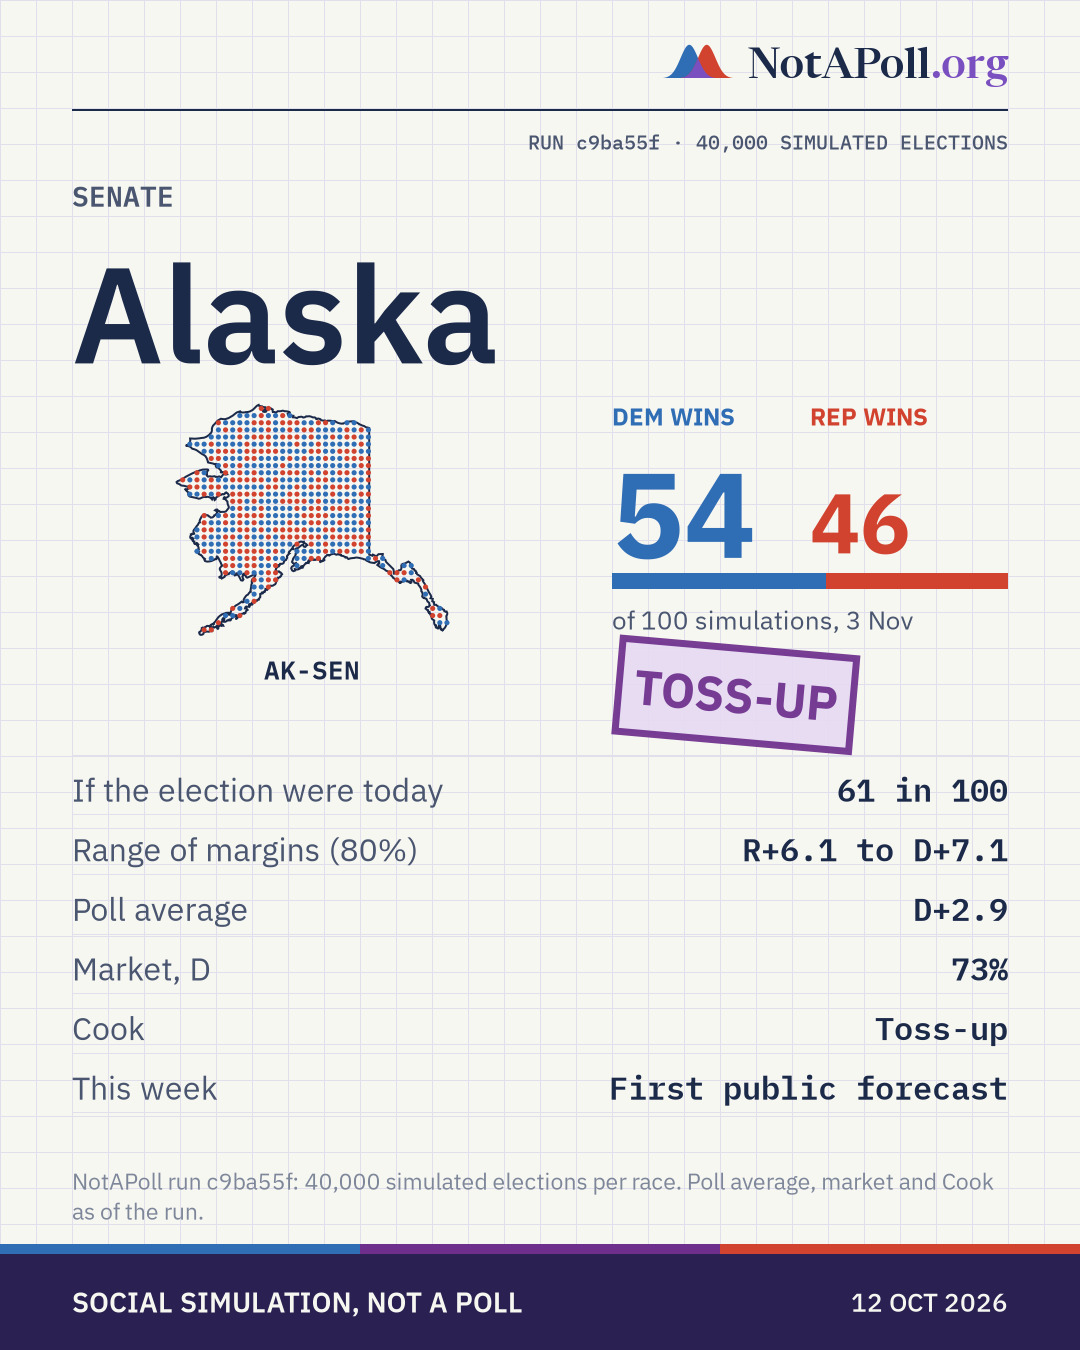
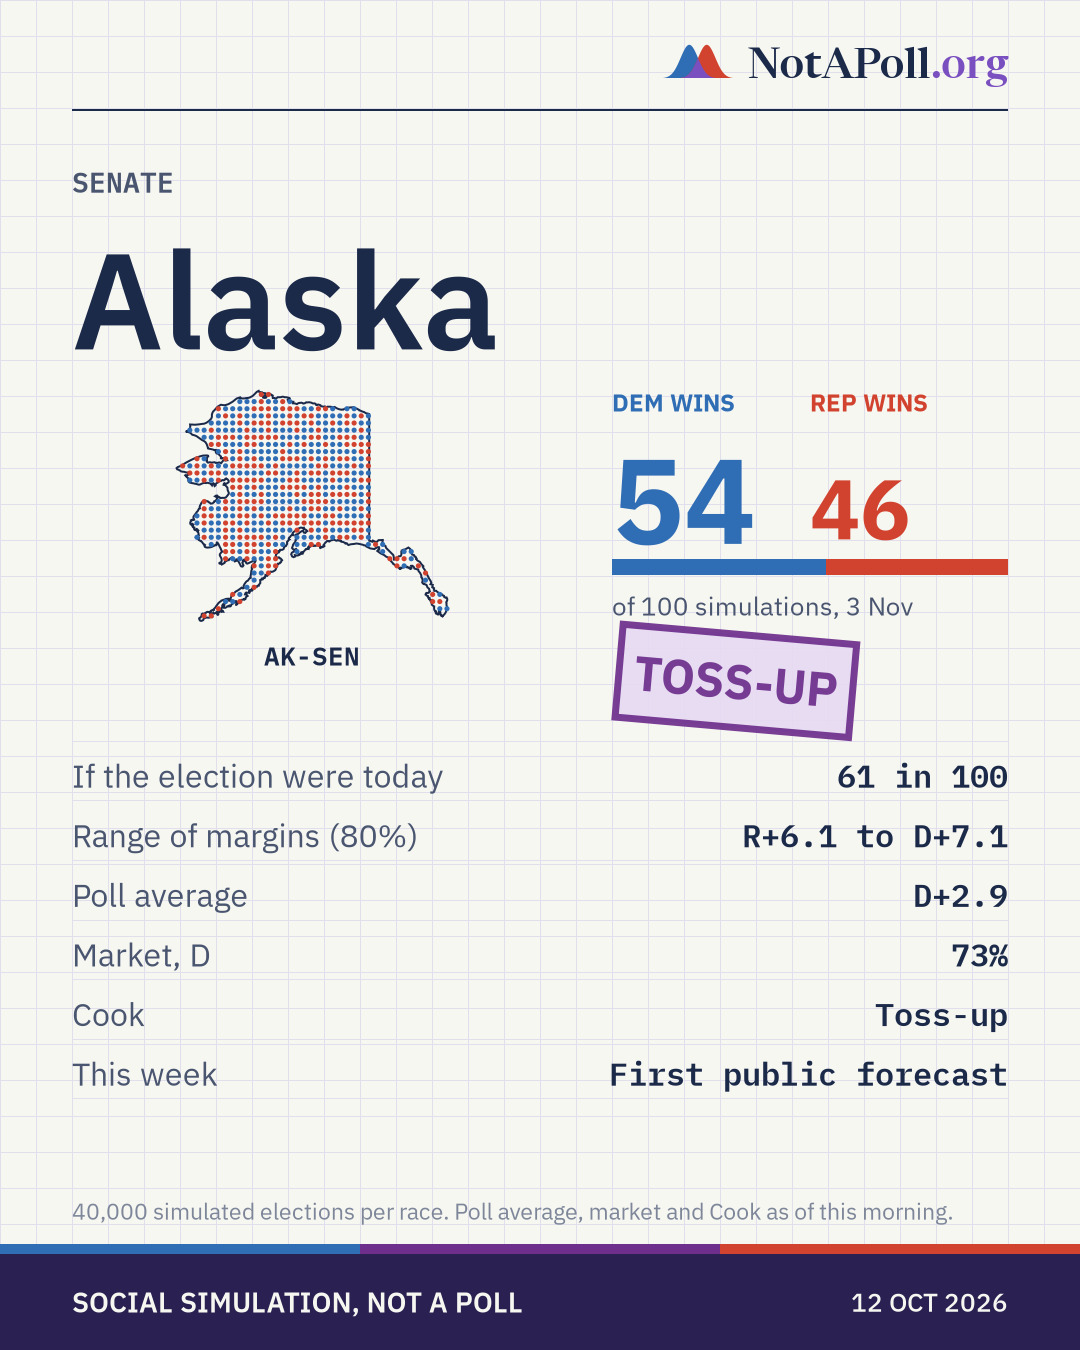
Launch post: Democrats left and Republicans right on The Chamber, no run code on slides (Matteo, 12 Oct); images re-hosted for Buffer

diff --git a/simlab/publish/launchday.py b/simlab/publish/launchday.py
@@ -34,7 +34,8 @@ def races(f: dict, day: date, kicker: str, source: str) -> list[dict]:
         b = x.get("benchmarks") or {}
         m = race_meta(rid, {})
         m["left_party"] = x.get("left_party", m.get("left_party", "D"))
-        out.append(m | {"rid": rid, "run": run, "day": day, "kicker": kicker, "p": float(x["p_dem_win"]),
+        out.append(m | {"rid": rid, "run": None, "day": day,  # no run code on slides (Matteo, 12 Oct)
+                        "kicker": kicker, "p": float(x["p_dem_win"]),
                         "prev": None, "today": (x.get("today") or {}).get("p_dem_win"),
                         "lo": x["margin"]["p10"], "mid": x["margin"]["p50"], "hi": x["margin"]["p90"],
                         "poll": poll_txt(b.get("poll_avg"), m["left_party"]), "market": b.get("market"),
@@ -68,7 +69,7 @@ def build(day: date, data: Path, preview: bool = False, theme=LAB) -> tuple[Path
     run = str(f.get("run_id", "unknown")).rsplit("-", 1)[-1][:7]
     kicker = "PREVIEW · NOT FOR POSTING" if preview else ""
     src = (f"Preview on pilot numbers ({day:%d %b}), not a public forecast." if preview else
-           f"NotAPoll run {run}: 40,000 simulated elections per race. Poll average, market and Cook as of the run.")
+           "40,000 simulated elections per race. Poll average, market and Cook as of this morning.")
     rs = races(f, day, kicker, src)
     feat = featured(rs, max(day, date(2026, 10, 12)))
     sen = f["senate"]
@@ -76,7 +77,7 @@ def build(day: date, data: Path, preview: bool = False, theme=LAB) -> tuple[Path
     ind = {r["usps"] for r in rs if r["left_party"] in ("I", "O")}
     hold = sen.get("not_up", {"D": 32, "R": 31, "I": 2})
     cover = specials.chamber(theme, up, {"D": hold.get("D", 0) + hold.get("I", 0), "R": hold.get("R", 0)},
-                             sen["p_r_50plus"], (sen.get("benchmarks") or {}).get("market"), day, run, kicker,
+                             sen["p_r_50plus"], (sen.get("benchmarks") or {}).get("market"), day, None, kicker,
                              src + " Independents who caucus with Democrats count as D.", p_d=sen["p_d_caucus_51"],
                              ind=ind, series=SERIES, p_ind=sen.get("p_independents_decide"))
     slides = [cover] + [rc.stamped(theme, r) for r in feat]

diff --git a/simlab/publish/specials.py b/simlab/publish/specials.py
@@ -211,8 +211,9 @@ def chamber(t=CHAMBER, up: dict = UP, holdover: dict = HOLDOVER, p_r: float = 0.
         s._put(cx, cy + 36, "in 100: Republicans hold 50+", "sans", 500, 30, t.ink2, ha="center", va="top")
     else:  # the split, as on the race cards (Matteo, 8 Oct): both sides in their colours, the leader larger
         r_n, d_n = round(p_r * 100), round(p_d * 100)
-        for side, n, lab, c in ((-1, r_n, "REP HOLD 50+", t.rep), (1, d_n, "DEM REACH 51", t.dem)):
-            px = 110 if n >= (d_n if side < 0 else r_n) else 80
+        # Democrats on the left, Republicans on the right, like the seats (Matteo, 12 Oct)
+        for side, n, lab, c in ((-1, d_n, "DEM REACH 51", t.dem), (1, r_n, "REP HOLD 50+", t.rep)):
+            px = 110 if n >= (r_n if side < 0 else d_n) else 80
             x = cx + side * 150
             s._put(x, cy + 30, lab, "sans", 700, 24, c, ha="center", va="top")  # below the arc, clear of the seats
             s._put(x, cy + 60 + (110 - px) * 0.9, f"{n}", "hero", t.hero_weight, px, c, ha="center", va="top")
